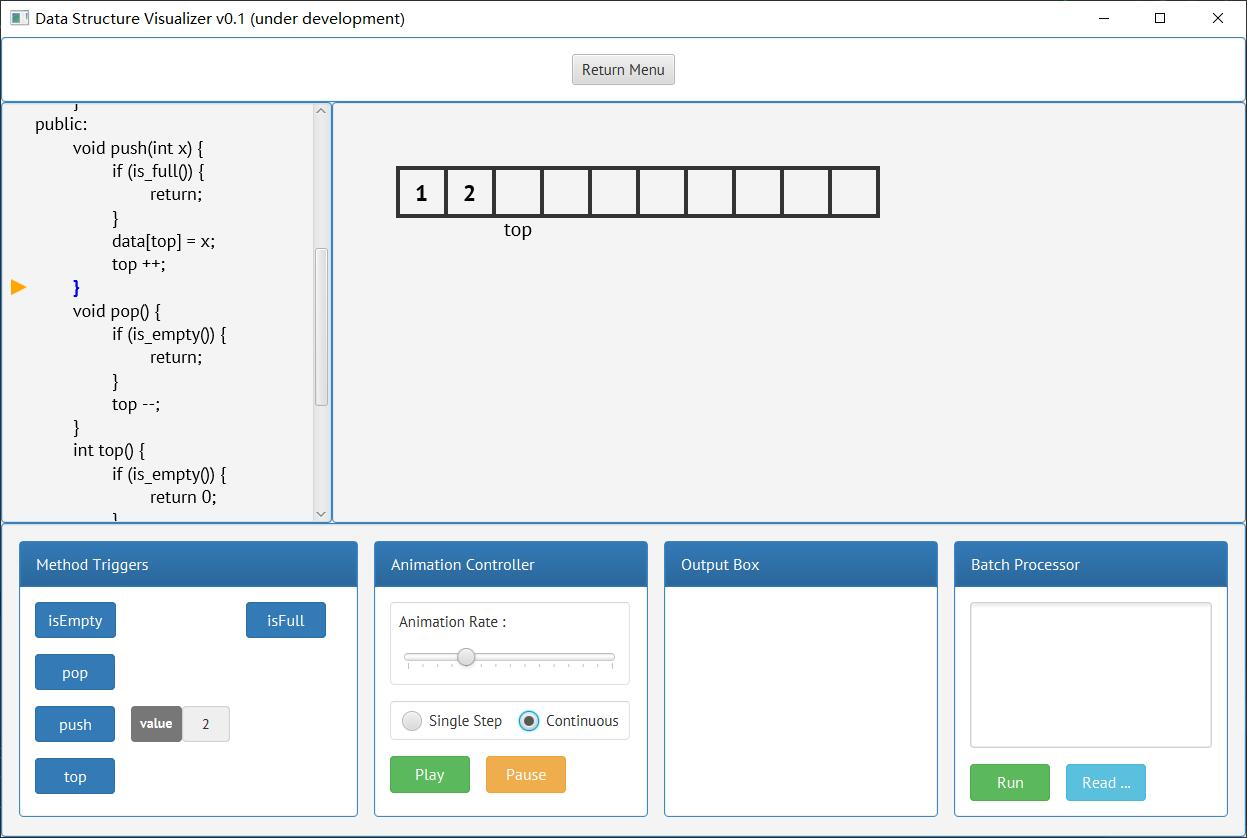
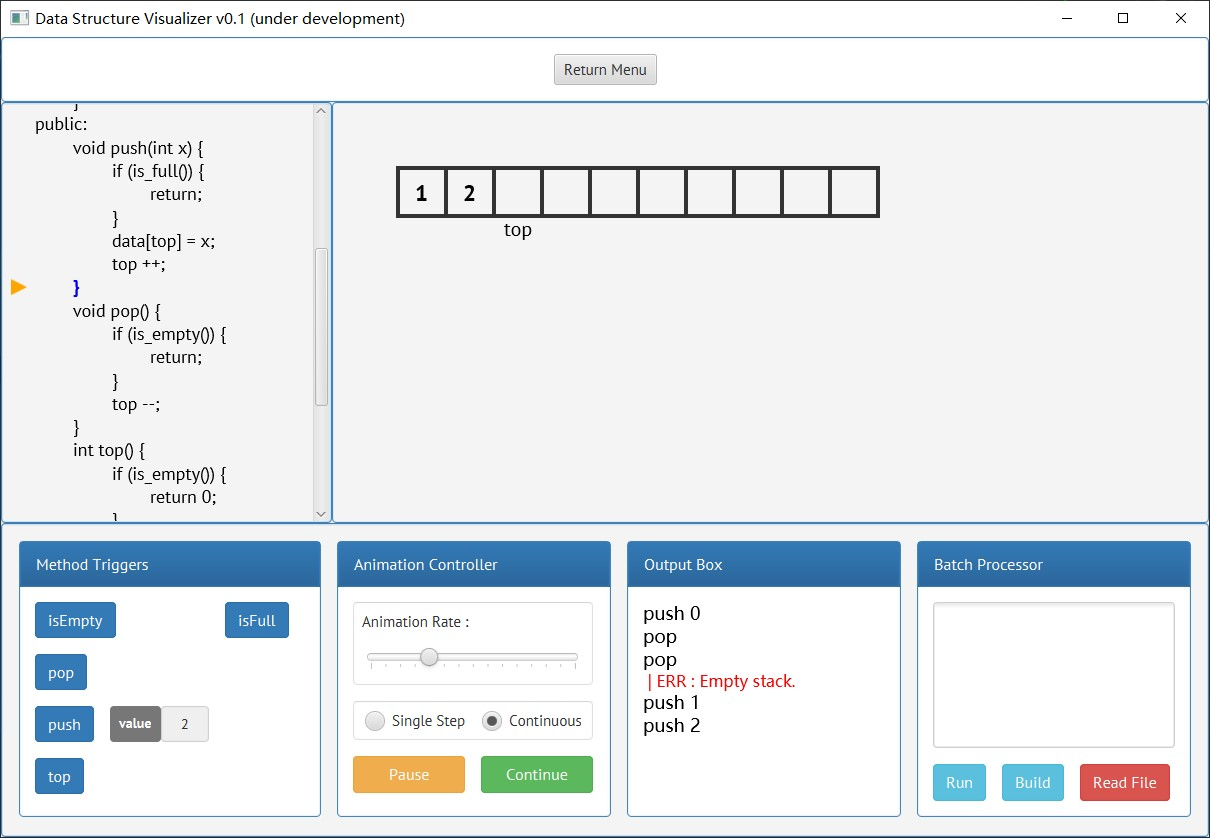
Update : Supports fast-build for batch-processing (unfinished)

diff --git a/resources/css/bootstrapfx.css b/resources/css/bootstrapfx.css
@@ -209,7 +209,7 @@ a.bg-danger:focused {
   -fx-font-size: 16px; /* 14px */
   -fx-border-radius: 4px;
   -fx-background-radius: 4px;
-  -fx-min-width: 80; }
+  /*-fx-min-width: 80;*/ }
   .btn:hover, .btn:focused, .btn.focused {
     -fx-text-fill: #333;
     -fx-fill: #333; }

diff --git a/src/jm233333/dsv/ui/control/BatchProcessor.java b/src/jm233333/dsv/ui/control/BatchProcessor.java
@@ -37,39 +37,42 @@ public class BatchProcessor extends PanelConsole<FlowPane> {
         // initialize the text area
         textArea = new TextArea();
         getPanelBody().getChildren().add(textArea);
-        // initialize the button [run]
+        // initialize buttons
+        initializeButtonRun(vds, methodTriggers);
+        initializeButtonBuild(vds, methodTriggers);
+        initializeButtonReadFile();
+    }
+
+    private void initializeButtonRun(VDS vds, MethodTriggers methodTriggers) {
+        // initialize button
         Button btnRun = new Button("Run");
-        btnRun.getStyleClass().setAll("btn", "btn-success");
+        btnRun.getStyleClass().setAll("btn", "btn-info");
+        getPanelBody().getChildren().add(btnRun);
+        // set listener
         btnRun.setOnAction((event) -> {
             // get the operation list
-            String[] input = textArea.getText().split("\\n+");
-            ArrayList<Pair<String, ArrayList<Integer>>> operations = new ArrayList<>();
-            for (String str : input) {
-                System.out.println("in-batch " + str);
-                Pair<String, ArrayList<Integer>> operation = VDSOptParser.parse(vds, str);
-                if (operation != null) {
-                    operations.add(operation);
-                } else {
-                    System.err.println("Illegal command [" + str + "]. Process refused.");
-                    return;
-                }
+            ArrayList<Pair<String, ArrayList<Integer>>> operationList;
+            try {
+                operationList = getOperationList(vds);
+            } catch (IllegalArgumentException e) {
+                System.err.println(e.getMessage());
+                return;
             }
             // set listener
-            System.out.println("ACTION");
             if (batchListener != null) {
                 batchIndexProperty().removeListener(batchListener);
             }
             batchListener = (observable, oldValue, newValue) -> {
                 // get index
                 int index = batchIndexProperty().get();
-                if (index == operations.size()) {
+                if (index == operationList.size()) {
                     batchIndexProperty().set(-1);
                 }
                 if (batchIndexProperty().get() == -1) {
                     return;
                 }
                 // get operation data
-                Pair<String, ArrayList<Integer>> operation = operations.get(index);
+                Pair<String, ArrayList<Integer>> operation = operationList.get(index);
                 // trigger the correspond method trigger
                 methodTriggers.trigger(operation.first, operation.second, (e) -> {
                     batchIndexProperty().set(batchIndexProperty().get() + 1);
@@ -78,10 +81,35 @@ public class BatchProcessor extends PanelConsole<FlowPane> {
             batchIndexProperty().addListener(batchListener);
             batchIndexProperty().set(0);
         });
-        //
+    }
+    private void initializeButtonBuild(VDS vds, MethodTriggers methodTriggers) {
+        // initialize button
+        Button btnBuild = new Button("Build");
+        btnBuild.getStyleClass().setAll("btn", "btn-info");
+        getPanelBody().getChildren().add(btnBuild);
+        // set listener
+        btnBuild.setOnAction((event) -> {
+            // get the operation list
+            ArrayList<Pair<String, ArrayList<Integer>>> operationList;
+            try {
+                operationList = getOperationList(vds);
+            } catch (IllegalArgumentException e) {
+                System.err.println(e.getMessage());
+                return;
+            }
+            //
+            for (Pair<String, ArrayList<Integer>> operation : operationList) {
+                methodTriggers.trigger(operation.first, operation.second, null);
+            }
+        });
+
+    }
+    private void initializeButtonReadFile() {
+        // initialize button
         Button btnReadFile = new Button("Read File");
-        btnReadFile.getStyleClass().setAll("btn", "btn-info");
-        btnReadFile.setAlignment(Pos.CENTER);
+        btnReadFile.getStyleClass().setAll("btn", "btn-danger");
+        getPanelBody().getChildren().add(btnReadFile);
+        // set listener
         btnReadFile.setOnAction((event) -> {
             FileChooser fileChooser = new FileChooser();
             fileChooser.setTitle("Choose Any Text File : ");
@@ -103,11 +131,22 @@ public class BatchProcessor extends PanelConsole<FlowPane> {
                 }
             }
         });
-        for (Button btn : new Button[]{btnRun, btnReadFile}) {
-            btn.setPrefWidth((textArea.getMaxWidth() - getPanelBody().getHgap()) / 2);
-            btn.setAlignment(Pos.CENTER);
-            getPanelBody().getChildren().add(btn);
+    }
+
+    private ArrayList<Pair<String, ArrayList<Integer>>> getOperationList(VDS vds) {
+        // get the operation list
+        String[] input = textArea.getText().split("\\n+");
+        ArrayList<Pair<String, ArrayList<Integer>>> operationList = new ArrayList<>();
+        for (String str : input) {
+            System.out.println("in-batch " + str);
+            Pair<String, ArrayList<Integer>> operation = VDSOptParser.parse(vds, str);
+            if (operation != null) {
+                operationList.add(operation);
+            } else {
+                throw new IllegalArgumentException("Illegal command [" + str + "]. Process refused.");
+            }
         }
+        return operationList;
     }
 
     public TextArea getTextArea() {

diff --git a/src/jm233333/dsv/ui/control/AnimationController.java b/src/jm233333/dsv/ui/control/AnimationController.java
@@ -63,18 +63,18 @@ public class AnimationController extends PanelConsole<FlowPane> {
         });
         hBoxType.getChildren().addAll(rb1, rb2);
         // initialize state-control
-        Button btnPlay = new Button("Play");
-        btnPlay.getStyleClass().setAll("btn", "btn-success");
-        btnPlay.setOnAction((event) -> {
-            Director.getInstance().playAnimation();
-        });
         Button btnPause = new Button("Pause");
         btnPause.getStyleClass().setAll("btn", "btn-warning");
         btnPause.setOnAction((event) -> {
             Director.getInstance().pauseAnimation();
         });
-        for (Button btn : new Button[]{btnPlay, btnPause}) {
-            btn.setPrefWidth((getPanelBody().getMaxWidth() - 3 * getPanelBody().getHgap()) / 2);
+        Button btnContinue = new Button("Continue");
+        btnContinue.getStyleClass().setAll("btn", "btn-success");
+        btnContinue.setOnAction((event) -> {
+            Director.getInstance().playAnimation();
+        });
+        for (Button btn : new Button[]{btnPause, btnContinue}) {
+            btn.setPrefWidth(112);
             btn.setAlignment(Pos.CENTER);
             getPanelBody().getChildren().add(btn);
         }

diff --git a/src/jm233333/dsv/visualized/VDS.java b/src/jm233333/dsv/visualized/VDS.java
@@ -191,22 +191,22 @@ public abstract class VDS {
         text.setFill(fontColor);
         text.setOpacity(0);
         text.fontProperty().addListener((ev, ov, nv) -> {
-            text.setFont(Font.font(18));
+            text.setFont(Font.font(fontSize));
         });
         outputBox.getChildren().add(text);
         Director.getInstance().createAnimation(0.25, text.opacityProperty(), 1);
     }
     public void outputMessageInvoke(String message) {
-        outputMessage(message, 21, Color.BLACK);
+        outputMessage(message, 18, Color.BLACK);
     }
     public <T> void outputMessageReturn(T message) {
-        outputMessage(" | RET : " + message, 18, Color.BLACK);
+        outputMessage(" | RET : " + message, 16, Color.BLACK);
     }
     public void outputMessageError(String message) {
-        outputMessage(" | ERR : " + message, 18, Color.RED);
+        outputMessage(" | ERR : " + message, 16, Color.RED);
     }
     public void outputMessageDebug(String message) {
-        outputMessage(" | [DBG] " + message, 18, Color.DARKGREEN);
+        outputMessage(" | [DBG] " + message, 16, Color.DARKGREEN);
     }
 
     /**

diff --git a/README.md b/README.md
@@ -172,11 +172,11 @@ Until 2020.3.23, I have not found any bug in the latest released version.
 |            | Refactors the design documents. |
 | 2020.9.16  | Update : Implements the main part of OutputBox. |
 |            | Fix BUG : Lack of out-of-bounds-check in several methods of VisualizedList. |
+|            | Fix BUG : Few UI layout mistakes. |
+| 2020.9.xx  | Update : Supports fast-build for batch-processing. |
 
 ## Todo List
 
 Things planned to do in the near future:
-
-- Update : Supports fast-build for batch-processing.
 
 - Update : Supports global visual pointers for VDS.
